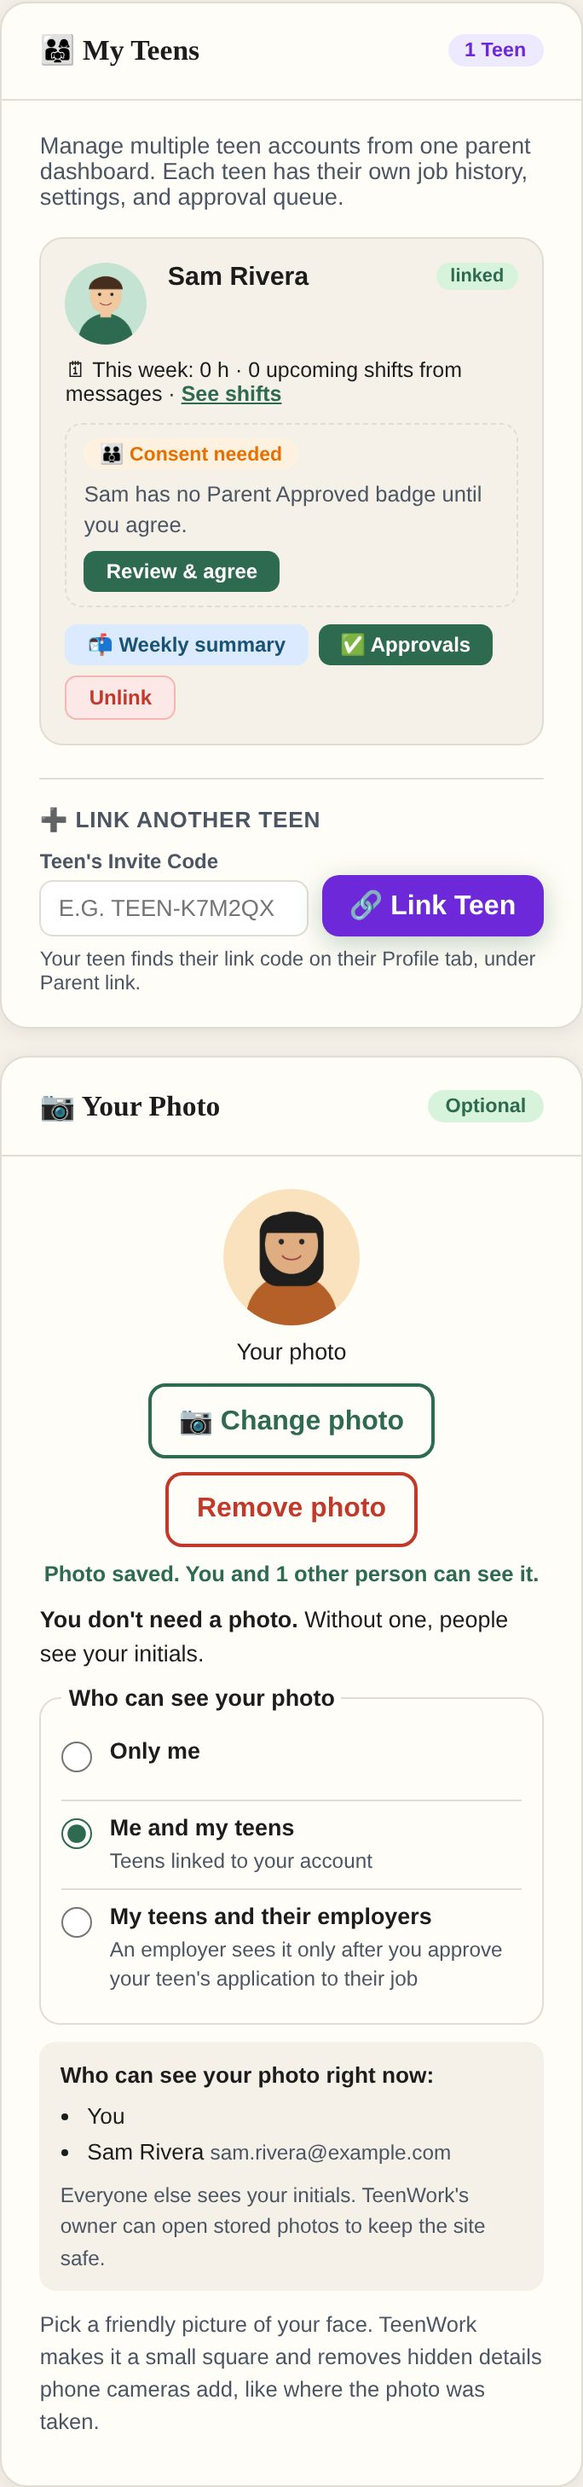
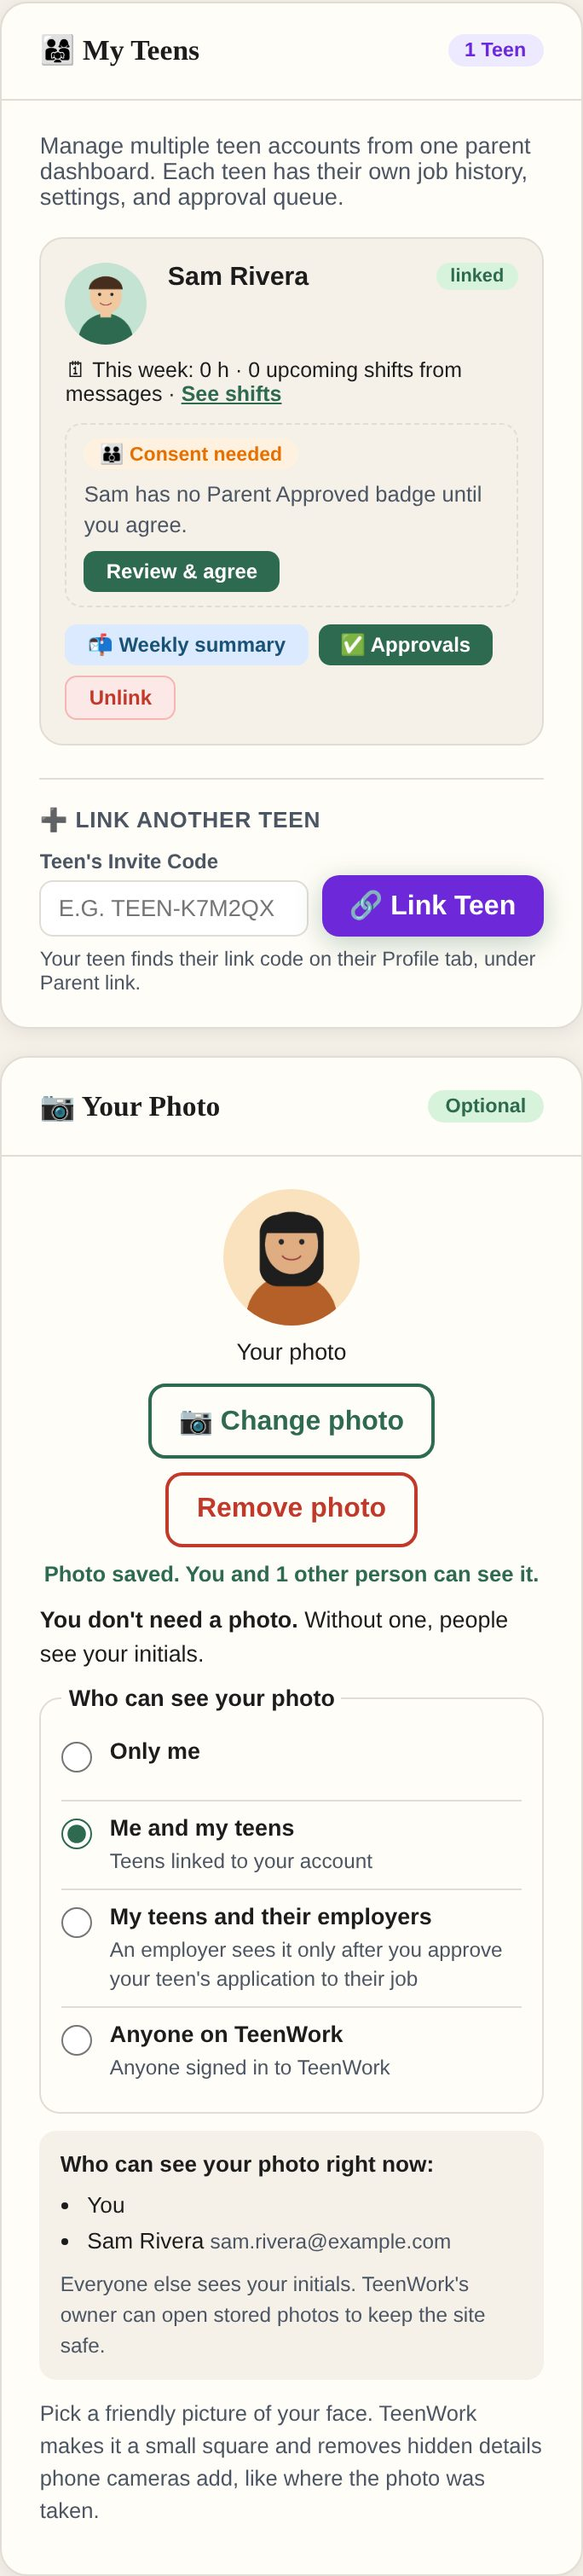
Photos: "Anyone on TeenWork" as a choice for teens, parents and employers
- Every photo box gets a fourth choice: anyone signed in to TeenWork (never
  people who aren't signed in). A teen who picks it sees "That includes adults
  you don't know. Talk to your parent before you pick this."
- Those photos also show next to people found with the Messages search.
- Migration 20261113 (not applied yet) allows 'everyone' and the viewer rule
  lets any signed-in person see it. Before it is applied, only that choice is
  refused ("isn't switched on yet") and the rest of the box keeps working.
- Tests: browser checks for the choice in all three boxes, the teen note, the
  refusal before the migration and search results; SQL checks for signed-in vs
  anon. New screenshot docs/profile-photos/after-teen-anyone-phone.jpg.

Claude-Session: https://claude.ai/code/session_01DScwzKW2c9gVYVhRt434Zh

Changed region(s): [[0.0307, 0.0, 0.9518, 0.9674]]

diff --git a/assets/js/profile-photo-v55.js b/assets/js/profile-photo-v55.js
@@ -16,6 +16,10 @@
        parent    only me / me and my teens / my teens and their employers
        employer  only me / teens whose application reached me / those
                  teens and the parents who approved them
+       and, for everyone (v58b, Aya 2026-11-14: "also have it so anyone
+       can see as option for all photos"), anyone on TeenWork: anyone
+       signed in, never people who aren't. Teens get a "talk to your
+       parent first" note on that choice.
      The choice and the people it covers are saved in
      public.tw_profile_photos, which only the owner's own signed-in
      account can write. Storage gives a viewer a one-hour link only when
@@ -39,11 +43,12 @@
   const BUCKET = 'profile-photos', TABLE = 'tw_profile_photos', SIZE = 400, MAX_IN = 20 * 1024 * 1024, LINK_SECS = 3600;
   const ROLES = ['teen', 'parent', 'employer'];
   // who-can-see choices per role, the first list each one adds, and the default
-  const AUD = { teen: ['me', 'parent', 'employers'], parent: ['me', 'teens', 'teens_employers'], employer: ['me', 'teens', 'teens_parents'] };
+  const AUD = { teen: ['me', 'parent', 'employers', 'everyone'], parent: ['me', 'teens', 'teens_employers', 'everyone'], employer: ['me', 'teens', 'teens_parents', 'everyone'] };
   const DEFAULT = { teen: 'parent', parent: 'teens', employer: 'teens_parents' };
   const SHOWS = {   // which lists each choice lets see the photo (same rule as tw_photo_viewer_ok in SQL)
     me: [], parent: ['parents'], employers: ['parents', 'employers'],
     teens: ['teens'], teens_employers: ['teens', 'employers'], teens_parents: ['teens', 'parents'],
+    everyone: [],   // v58b: anyone signed in to TeenWork (never people who aren't signed in)
   };
   const CAP = { parents: 300, employers: 200, teens: 300 };
   const $ = id => document.getElementById(id);
@@ -76,10 +81,12 @@
       return s && s.user && low(s.user.email) === emailOfKey(key) ? s : null;
     } catch (e) { return null; }
   }
+  // the database doesn't know this choice yet (the v58 change isn't applied): only that choice is refused
+  const notReady = err => !!err && (err.code === '23514' || /audience_check/i.test(String(err.message || '')));
   // "not set up yet": the table, the rpc or (for parents and employers) the v58 column / choices are missing
   const missing = err => !!err && (err.code === 'PGRST205' || err.code === 'PGRST202' || err.code === 'PGRST204' || err.code === '42P01' ||
     err.code === '42883' || err.code === '42703' ||
-    /tw_profile_photos|tw_photo_paths|bucket not found|schema cache|teen_viewers|audience_check/i.test(String(err.message || '')));
+    /tw_profile_photos|tw_photo_paths|bucket not found|schema cache|teen_viewers/i.test(String(err.message || '')));
 
   /* ══ 1. my own photo ═══════════════════════════════════════════════ */
   // the box's parts: the teen's box is in index.html, the parent's and employer's are added below
@@ -91,9 +98,11 @@
   }
   const CHOICES = {
     parent: [['me', 'Only me', ''], ['teens', 'Me and my teens', 'Teens linked to your account'],
-      ['teens_employers', 'My teens and their employers', 'An employer sees it only after you approve your teen\'s application to their job']],
+      ['teens_employers', 'My teens and their employers', 'An employer sees it only after you approve your teen\'s application to their job'],
+      ['everyone', 'Anyone on TeenWork', 'Anyone signed in to TeenWork']],
     employer: [['me', 'Only me', ''], ['teens', 'Teens who applied', 'A teen sees it once their application reaches you, after their parent says OK'],
-      ['teens_parents', 'Those teens and their parents', 'Also the parent who approved each application']],
+      ['teens_parents', 'Those teens and their parents', 'Also the parent who approved each application'],
+      ['everyone', 'Anyone on TeenWork', 'Anyone signed in to TeenWork, so teens and parents can see who you are']],
   };
   const HINT = {
     parent: 'Pick a friendly picture of your face. TeenWork makes it a small square and removes hidden details phone cameras add, like where the photo was taken.',
@@ -243,7 +252,8 @@
     const row = rowFor(fields);
     let r;
     try { r = await c.from(TABLE).upsert(row, { onConflict: 'owner_key' }).select(cols(st.role)).single(); } catch (e) { r = { error: e }; }
-    if (r && r.error) { if (missing(r.error)) st.setup = 'missing'; return false; }
+    if (r && r.error) { st.refused = notReady(r.error); if (!st.refused && missing(r.error)) st.setup = 'missing'; return false; }
+    st.refused = false;
     st.row = r.data || row;
     return true;
   }
@@ -357,7 +367,7 @@
     st.row = Object.assign({}, st.row || {}, { audience: a }); draw();
     if (!st.people) { const p = await readPeople(c, st.key, st.role); if (p) st.people = p; }
     if (await save(c, { audience: a })) say('Saved. ' + whoShort() + '.', 'ok');
-    else { st.row = before; say(st.setup === 'missing' ? setupText() : 'That change didn\'t save. Please try again.', 'bad'); }
+    else { st.row = before; say(st.refused ? 'That choice isn\'t switched on yet. Check back soon.' : st.setup === 'missing' ? setupText() : 'That change didn\'t save. Please try again.', 'bad'); }
   }
 
   /* ══ 2. the photo box ═══════════════════════════════════════════════ */
@@ -374,6 +384,7 @@
   function whoShort() {
     const a = audience(), p = st.people || { parents: [], employers: [], teens: [] };
     if (a === 'me') return 'Only you can see it';
+    if (a === 'everyone') return 'Anyone signed in to TeenWork can see it';
     const n = SHOWS[a].reduce((t, k) => t + p[k].length, 0);
     return n ? 'You and ' + n + (n === 1 ? ' other person' : ' other people') + ' can see it' : 'Right now only you can see it';
   }
@@ -385,13 +396,16 @@
   const PRACTICE = {
     parent: 'Your linked parent', employers: 'Your linked parent, and employers after your parent approves an application',
     teens: 'Your linked teens', teens_employers: 'Your linked teens, and their employers after you approve an application',
+    everyone: 'Anyone signed in to TeenWork',
   };
   function whoHTML() {
     const a = audience(), role = st.role, p = st.people, has = !!photoUrl();
     const lead = has ? '<b>Who can see your photo right now:</b>' : '<b>No photo yet.</b> If you add one, it shows to:';
     if (a === 'me') return lead + '<ul><li>Only you</li></ul>';
+    if (a === 'everyone') return lead + '<ul><li>You</li><li>Anyone signed in to TeenWork</li></ul>' +
+      (role === 'teen' ? '<p class="tw55-warn">⚠ That includes adults you don\'t know. Talk to your parent before you pick this.</p>' : '');
     if (st.setup === 'practice') {
-      const what = role === 'employer' ? (a === 'teens' ? 'Teens whose application reached you' : 'Those teens and the parents who approved them') : PRACTICE[a];
+      const what = role === 'employer' && a !== 'everyone' ? (a === 'teens' ? 'Teens whose application reached you' : 'Those teens and the parents who approved them') : PRACTICE[a];
       return lead + '<ul><li>You</li><li>' + what + ' (in a real account)</li></ul>';
     }
     if (!p) return lead + '<ul><li>You</li><li class="tw55-muted">Checking who that is…</li></ul>';
@@ -436,7 +450,8 @@
       stat.className = 'tw55-status' + (st.msgKind ? ' ' + st.msgKind : (!ready && st.setup !== 'idle' ? ' bad' : ''));
     }
     if (who) {
-      const h = ready ? whoHTML() + '<p class="tw55-note">Everyone else sees your initials. TeenWork\'s owner can open stored photos to keep the site safe.</p>' : '';
+      const h = ready ? whoHTML() + '<p class="tw55-note">' + (audience() === 'everyone' ? 'People who aren\'t signed in to TeenWork never see it.' : 'Everyone else sees your initials.') +
+        ' TeenWork\'s owner can open stored photos to keep the site safe.</p>' : '';
       if (who.innerHTML !== h) who.innerHTML = h;
       who.hidden = !h;
     }
@@ -505,6 +520,11 @@
       const m = /openMsgChat\('([^']+)'\)/.exec(row.getAttribute('onclick') || ''), c = m ? byId(m[1]) : null;
       const el = row.querySelector('.msg-contact-avatar');
       if (el && c && c.cloudKey) spots.push({ el, key: low(c.cloudKey), name: c.name || 'this person' });
+    });
+    // people found with the Messages search box (their photo shows only when they picked "Anyone on TeenWork")
+    document.querySelectorAll('#msg-contacts-list .tw47c-person').forEach(row => {
+      const b = row.querySelector('[data-tw47c-add]'), el = row.querySelector('.msg-contact-avatar'), n = row.querySelector('.msg-contact-name');
+      if (b && el) spots.push({ el, key: low(b.getAttribute('data-tw47c-add')), name: (n && n.textContent) || 'this person' });
     });
     const head = document.querySelector('#msg-main-area .msg-header-avatar'), c = byId(activeChat());
     if (head && c && c.cloudKey) spots.push({ el: head, key: low(c.cloudKey), name: c.name || 'this person' });

diff --git a/index.html b/index.html
@@ -1587,6 +1587,7 @@
                 <label><input type="radio" name="tw55-aud" value="me"><span><b>Only me</b></span></label>
                 <label><input type="radio" name="tw55-aud" value="parent" checked><span><b>Me and my parent</b><small>Parents linked to your account</small></span></label>
                 <label><input type="radio" name="tw55-aud" value="employers"><span><b>My parent and employers</b><small>An employer sees it only after your parent approves your application to their job</small></span></label>
+                <label><input type="radio" name="tw55-aud" value="everyone"><span><b>Anyone on TeenWork</b><small>Anyone signed in to TeenWork, including adults you don't know. Talk to your parent first.</small></span></label>
               </fieldset>
               <div class="tw55-who" id="tw55-who" hidden></div>
               <p class="tw53-hint">Pick a friendly picture of your face that doesn't show your school name, your house or street, or a team jersey. TeenWork makes it a small square and removes hidden details phone cameras add, like where the photo was taken.</p>

diff --git a/assets/css/profile-photo-v55.css b/assets/css/profile-photo-v55.css
@@ -36,3 +36,5 @@ html.dark .tw55-aud small,html.dark .tw55-who .tw55-mail,html.dark .tw55-who .tw
 .tw55-box{text-align:left}
 .tw55-box p{font-size:.84rem;line-height:1.5;margin:0 0 8px;color:var(--text,#1b1b1b)}
 .tw55-box .tw53-hint{color:var(--muted,#5b6470);font-size:.8rem}
+.tw55-who .tw55-warn{margin:6px 0 0;padding:6px 8px;border-radius:8px;background:var(--amber-pale,#fff4e0);color:#7a4a00;font-size:.8rem;font-weight:600}
+html.dark .tw55-who .tw55-warn{background:#3a2a10;color:#ffd79a}

diff --git a/README.md b/README.md
@@ -106,10 +106,11 @@ Each person picks who sees it, and the box lists exactly who that is right now:
 - Teen: only me, me and my parent (the default), or my parent and employers. An employer is included only after a parent approved the teen's application to that employer's job.
 - Parent: only me, me and my teens (the default), or my teens and their employers (employers of jobs the teen applied to, after a parent's OK).
 - Employer: only me, teens who applied (once a parent approved the application), or those teens and the parents who approved them (the default).
+- Everyone also has "Anyone on TeenWork": anyone signed in to TeenWork (never people who aren't signed in). A teen who picks it is told it includes adults they don't know and to talk to a parent first. Those photos also show next to people found with the Messages search.
 
 The choice and the emails it covers are in `public.tw_profile_photos`, a table only the owner's own sign-in can write. The owner's app refreshes the lists from its own records (the teen's parent link and applications, the parent's linked teens and their applications, the applications to the employer's jobs). Photos show in Messages (contact list and chat header) for everyone, on the teen card and in My Teens for parents, and on the Applicant Pipeline for employers. Everyone else sees initials. Practice accounts never upload.
 Deleting or closing an account deletes its photo and takes its email off everyone's lists (`delete-account` function and `tw_photo_forget_viewer`).
-Database: `supabase/migrations/20261107_profile_photos.sql` (bucket, table, rules) and `delete-account` version 4 have been live since 2026-11-09, which is all teen photos need. `supabase/migrations/20261113_profile_photos_all_roles.sql` adds the teens list and the parent and employer choices; until it is applied, the parent and employer boxes say "Photo upload is still being set up" and teen photos keep working.
+Database: `supabase/migrations/20261107_profile_photos.sql` (bucket, table, rules) and `delete-account` version 4 have been live since 2026-11-09, which is all teen photos need. `supabase/migrations/20261113_profile_photos_all_roles.sql` adds the teens list, the parent and employer choices and "Anyone on TeenWork"; until it is applied, the parent and employer boxes say "Photo upload is still being set up", "Anyone on TeenWork" says it isn't switched on yet, and teen photos keep working.
 Who counts as someone's parent, teen or employer still comes from `user_data`, which anyone with the app's key can write; the photo rules only trust the owner's own row, and the owner sees the list of people.
 Checks: `node tests/profile-photo-v55.cjs` (screens, fake Supabase), `node --experimental-strip-types tests/delete-account-photos.mjs`, and the database rules on a throwaway local Postgres: `TW_PG="host=… port=… user=postgres" node tests/profile-photos-sql.mjs`.
 
